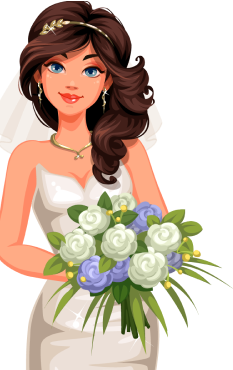
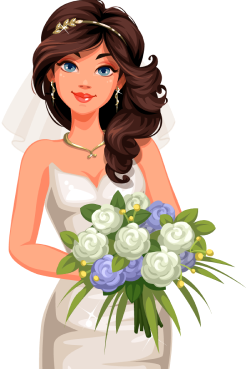
replaced just remove background

diff --git a/src/styles/Home.module.css b/src/styles/Home.module.css
@@ -199,9 +199,9 @@ transform: scale(1.4) translate(-75px, 350px);
   align-items: center;
 }
 
+
 .game3 {
   position: relative;
-  /* background-image: url('/Frame6.jpg'); */
   background-color: #EEEEEE;
   background-size: cover;
   height: 1100px;
@@ -214,13 +214,20 @@ transform: scale(1.4) translate(-75px, 350px);
 .iPaint_painting_bg{
   position: absolute;
   transform: scale(1.1);
+  z-index: 0;
 }
 
+
+  
 .iPaint_pumpkin{
   position: absolute;
-  transform: translate(700px,-400px);
+  width: 10%;
+  transform: translate(700px,-400px);     
+  z-index: 0;
 
 }
+
+
 
 .game4 {
   position: relative;
@@ -238,17 +245,20 @@ transform: scale(1.4) translate(-75px, 350px);
 .khelo_bomb{
   position: absolute;
   transform: scale(1.2)  translate(-700px,-280px);
-  
+  z-index: 0;
 }
+
 
 .khelo_bird{
   position: absolute;
   transform: scale(1.2) translate(700px,280px);
-  
+  z-index: 0;  
 }
+
+
+
 .game5 {
   position: relative;
-  /* background-image: url('/Frame3.jpg'); */
   background-color: #F6D7EF;
   background-size: cover;
   height: 900px;
@@ -262,12 +272,10 @@ transform: scale(1.4) translate(-75px, 350px);
 .just_remove_girl{
   position: absolute;
   transform: scale(1.5)  translate(-520px,115px);
-  
+  z-index: 0;
 }
 
 .image_btns {
-  /* display: flex; */
-  /* justify-content: center; */
   margin-top: 50px;
 }
 
@@ -347,6 +355,7 @@ transform: scale(1.2) ;
   margin-bottom: 50px;
   font-family: 'Work Sans', sans-serif;
   font-size: 100;
+  z-index: 2;
 
 }
 
